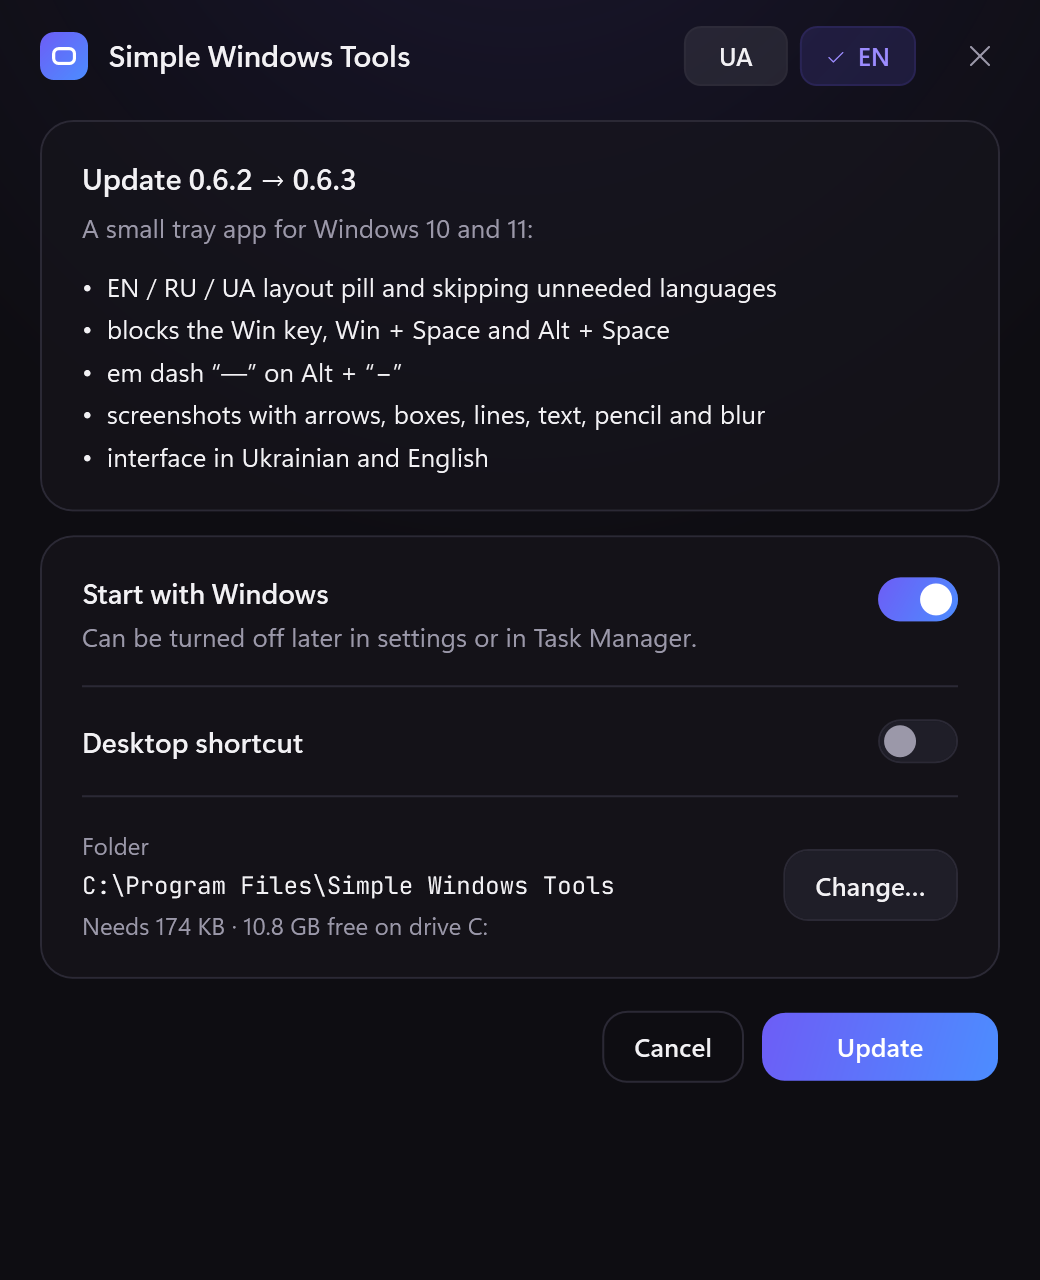
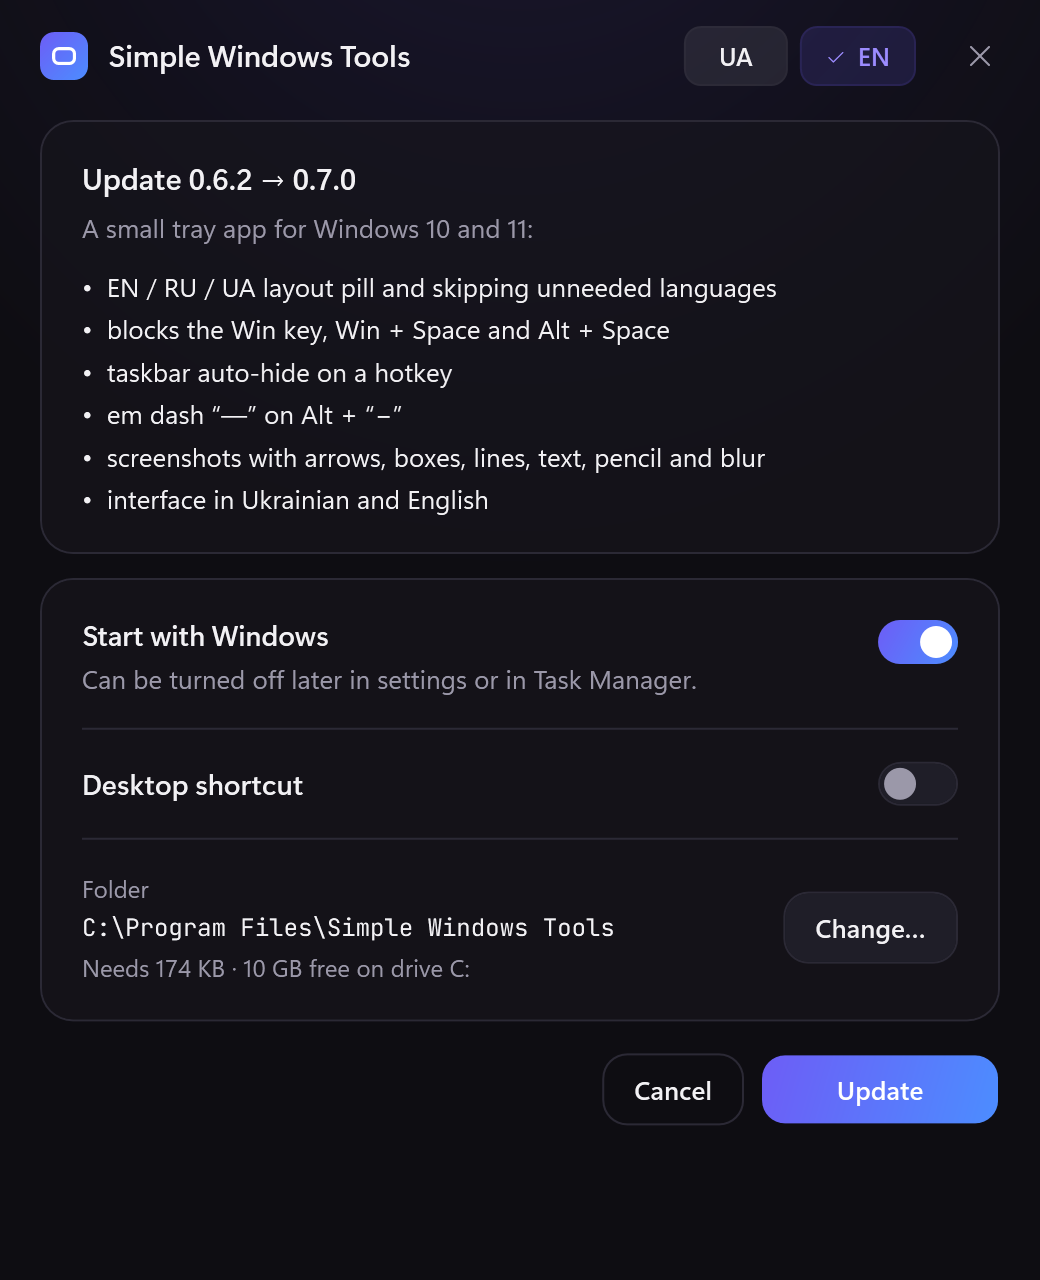
0.7.0: taskbar auto-hide on a hotkey
Ctrl+Alt+F8 (re-assignable) flips Windows' "Automatically hide the taskbar"
through SHAppBarMessage ABM_SETSTATE: Windows 10 and 11, all monitors, no
Explorer restart. The state stays Windows' own; the settings card, its switch
and a tray item show it and are re-read when opened.

diff --git a/src/SimpleWindowsTools/UI/SettingsWindow.xaml b/src/SimpleWindowsTools/UI/SettingsWindow.xaml
@@ -148,6 +148,23 @@
                             </Grid>
                         </Border>
 
+                        <!-- ===== Taskbar auto-hide (the state is Windows' own) ===== -->
+                        <Border Style="{StaticResource Card}">
+                            <Grid>
+                                <Grid.ColumnDefinitions>
+                                    <ColumnDefinition Width="*" />
+                                    <ColumnDefinition Width="Auto" />
+                                </Grid.ColumnDefinitions>
+                                <StackPanel>
+                                    <TextBlock Text="{DynamicResource S.Taskbar.Title}" Style="{StaticResource CardTitle}" />
+                                    <TextBlock Style="{StaticResource Muted}" Margin="0,4,0,10" Text="{DynamicResource S.Taskbar.Text}" />
+                                    <ui:HotkeyEditor x:Name="TaskbarHotkey" />
+                                </StackPanel>
+                                <CheckBox x:Name="TaskbarSwitch" Grid.Column="1" Style="{StaticResource Switch}" VerticalAlignment="Top" Margin="16,2,0,0"
+                                          Click="TaskbarSwitch_Click" />
+                            </Grid>
+                        </Border>
+
                         <!-- ===== Em dash ===== -->
                         <Border Style="{StaticResource Card}">
                             <Grid>

diff --git a/src/SimpleWindowsTools/Setup/InstallerWindow.xaml b/src/SimpleWindowsTools/Setup/InstallerWindow.xaml
@@ -35,6 +35,7 @@
                             <TextBlock Style="{StaticResource Muted}" Margin="0,6,0,12" Text="{DynamicResource I.Intro}" />
                             <TextBlock Style="{StaticResource Text}" Margin="0,0,0,4" Text="{DynamicResource I.F1}" />
                             <TextBlock Style="{StaticResource Text}" Margin="0,0,0,4" Text="{DynamicResource I.F2}" />
+                            <TextBlock Style="{StaticResource Text}" Margin="0,0,0,4" Text="{DynamicResource I.F6}" />
                             <TextBlock Style="{StaticResource Text}" Margin="0,0,0,4" Text="{DynamicResource I.F3}" />
                             <TextBlock Style="{StaticResource Text}" Margin="0,0,0,4" Text="{DynamicResource I.F4}" />
                             <TextBlock Style="{StaticResource Text}" Text="{DynamicResource I.F5}" />

diff --git a/src/SimpleWindowsTools/Core/Loc.cs b/src/SimpleWindowsTools/Core/Loc.cs
@@ -102,6 +102,12 @@ public static class Strings
             "Win не відкриває «Пуск», Win + Space і Alt + Space нічого не роблять. Поки Win затиснута, інші клавіші теж не натискаються.",
             "Win doesn't open Start, Win + Space and Alt + Space do nothing. While Win is held, other keys don't work either.",
         },
+        ["S.Taskbar.Title"] = new[] { "Автоприховування панелі завдань", "Taskbar auto-hide" },
+        ["S.Taskbar.Text"] = new[]
+        {
+            "Гаряча клавіша вмикає й вимикає «Автоматично приховувати панель завдань» з параметрів Windows. Перемикач показує поточний стан.",
+            "The hotkey turns Windows' “Automatically hide the taskbar” on and off. The switch shows the current state.",
+        },
         ["S.Dash.Title"] = new[] { "Довге тире", "Em dash" },
         ["S.Dash.Text"] = new[]
         {
@@ -266,6 +272,7 @@ public static class Strings
         ["C.Title.Win"] = new[] { "блокування Win", "the Win blocker" },
         ["C.Title.Dash"] = new[] { "довге тире", "the em dash" },
         ["C.Title.Shot"] = new[] { "скриншот", "screenshots" },
+        ["C.Title.Taskbar"] = new[] { "автоприховування панелі завдань", "taskbar auto-hide" },
         ["C.Title.Exit"] = new[] { "закриття програми", "quitting the app" },
         ["C.InUse"] = new[] { "Уже використовується: {0}", "Already used for {0}" },
         ["C.TakenByOther"] = new[] { "Це сполучення вже зайняте іншою програмою", "Another app already uses this shortcut" },
@@ -276,12 +283,16 @@ public static class Strings
         ["C.InSwitch"] = new[] { "{0}: у перемиканні", "{0}: back in switching" },
         ["C.WinBlocked"] = new[] { "Win: заблокована", "Win: blocked" },
         ["C.WinWorks"] = new[] { "Win: працює", "Win: works" },
+        ["C.TaskbarHidden"] = new[] { "Панель завдань: ховається", "Taskbar: auto-hide" },
+        ["C.TaskbarShown"] = new[] { "Панель завдань: завжди видно", "Taskbar: always shown" },
+        ["C.TaskbarFailed"] = new[] { "Не вдалося змінити панель завдань", "Couldn't change the taskbar" },
         ["C.ShotFailed"] = new[] { "Скриншот не вдався", "Screenshot failed" },
 
         // ===== Tray menu =====
         ["T.Settings"] = new[] { "Налаштування", "Settings" },
         ["T.Shot"] = new[] { "Зробити скриншот", "Take a screenshot" },
         ["T.Win"] = new[] { "Блокування Win", "Win blocker" },
+        ["T.Taskbar"] = new[] { "Ховати панель завдань", "Auto-hide the taskbar" },
         ["T.Exit"] = new[] { "Вихід", "Quit" },
 
         // ===== Screenshot editor =====
@@ -313,6 +324,7 @@ public static class Strings
         ["I.Intro"] = new[] { "Маленька програма в треї для Windows 10 і 11:", "A small tray app for Windows 10 and 11:" },
         ["I.F1"] = new[] { "•  плашка EN / RU / UA і пропуск непотрібних мов", "•  EN / RU / UA layout pill and skipping unneeded languages" },
         ["I.F2"] = new[] { "•  блокування клавіші Win, Win + Space і Alt + Space", "•  blocks the Win key, Win + Space and Alt + Space" },
+        ["I.F6"] = new[] { "•  автоприховування панелі завдань гарячою клавішею", "•  taskbar auto-hide on a hotkey" },
         ["I.F3"] = new[] { "•  довге тире «—» на Alt + «−»", "•  em dash “—” on Alt + “−”" },
         ["I.F4"] = new[] { "•  скриншоти зі стрілками, рамками, лініями, текстом, олівцем і розмиттям", "•  screenshots with arrows, boxes, lines, text, pencil and blur" },
         ["I.F5"] = new[] { "•  інтерфейс українською та англійською", "•  interface in Ukrainian and English" },

diff --git a/src/SimpleWindowsTools/UI/SettingsWindow.xaml.cs b/src/SimpleWindowsTools/UI/SettingsWindow.xaml.cs
@@ -30,6 +30,7 @@ public partial class SettingsWindow : Window
         SkipHotkey.Init(_app, HotkeyId.ToggleSkip);
         BuildLanguageChips();
         WinHotkey.Init(_app, HotkeyId.ToggleWinBlock);
+        TaskbarHotkey.Init(_app, HotkeyId.Taskbar);
         DashHotkey.Init(_app, HotkeyId.EmDash);
         ShotHotkey.Init(_app, HotkeyId.Screenshot);
         ExitHotkey.Init(_app, HotkeyId.Exit);
@@ -46,6 +47,7 @@ public partial class SettingsWindow : Window
         Activated += (_, _) =>
         {
             LoadAutostartState(); // may have been switched off in Task Manager meanwhile
+            TaskbarSwitch.IsChecked = Modules.TaskbarAutoHide.IsOn; // or auto-hide in Windows settings
             BuildShotTools();     // may have been reordered in the editor meanwhile
         };
         UI.DragReorder.Attach(ShotTools, tags =>
@@ -63,6 +65,7 @@ public partial class SettingsWindow : Window
         OverlayOptions.IsEnabled = s.LayoutOverlayEnabled;
         OverlayOptions.Opacity = s.LayoutOverlayEnabled ? 1 : 0.45;
         WinSwitch.IsChecked = s.WinBlockEnabled;
+        TaskbarSwitch.IsChecked = Modules.TaskbarAutoHide.IsOn; // read from Windows: may be changed in its settings
         DashSwitch.IsChecked = s.EmDashEnabled;
         DurationSlider.Value = s.OverlayDurationMs;
         FontSlider.Value = s.OverlayFontSize;
@@ -74,6 +77,7 @@ public partial class SettingsWindow : Window
         foreach (var chip in SkipLanguages.Children.OfType<ToggleButton>())
             chip.IsChecked = s.SkippedLanguages.Contains((int)chip.Tag);
         WinHotkey.Refresh();
+        TaskbarHotkey.Refresh();
         DashHotkey.Refresh();
         ShotHotkey.Refresh();
         ShotSwitch.IsChecked = s.ScreenshotEnabled;
@@ -367,6 +371,7 @@ public partial class SettingsWindow : Window
 
     private void OverlaySwitch_Click(object sender, RoutedEventArgs e) => _app.SetLayoutOverlay(OverlaySwitch.IsChecked == true);
     private void WinSwitch_Click(object sender, RoutedEventArgs e) => _app.SetWinBlock(WinSwitch.IsChecked == true);
+    private void TaskbarSwitch_Click(object sender, RoutedEventArgs e) => _app.SetTaskbarAutoHide(TaskbarSwitch.IsChecked == true);
     private void DashSwitch_Click(object sender, RoutedEventArgs e) => _app.SetEmDash(DashSwitch.IsChecked == true);
 
     private void Look_Changed(object sender, RoutedPropertyChangedEventArgs<double> e)

diff --git a/src/SimpleWindowsTools/UI/TrayIcon.cs b/src/SimpleWindowsTools/UI/TrayIcon.cs
@@ -13,6 +13,7 @@ public sealed class TrayIcon : IDisposable
     private readonly ToolStripMenuItem _overlayItem;
     private readonly ToolStripMenuItem _skipItem;
     private readonly ToolStripMenuItem _winItem;
+    private readonly ToolStripMenuItem _taskbarItem;
     private readonly ToolStripMenuItem _dashItem;
     private readonly ToolStripMenuItem _exitItem;
     private readonly ToolStripMenuItem _shotItem;
@@ -32,6 +33,7 @@ public sealed class TrayIcon : IDisposable
         _skipItem = new ToolStripMenuItem("", null, (_, _) => _app.SetSkipLanguages(!_app.Settings.SkipLanguagesEnabled, notify: true));
         _winItem = new ToolStripMenuItem("", null, (_, _) => _app.SetWinBlock(!_app.Settings.WinBlockEnabled));
         _dashItem = new ToolStripMenuItem("", null, (_, _) => _app.SetEmDash(!_app.Settings.EmDashEnabled));
+        _taskbarItem = new ToolStripMenuItem("", null, (_, _) => _app.SetTaskbarAutoHide(!Modules.TaskbarAutoHide.IsOn));
 
         _exitItem = new ToolStripMenuItem("", null, (_, _) => _app.RequestExit());
 
@@ -56,6 +58,7 @@ public sealed class TrayIcon : IDisposable
             Padding = new Padding(4),
             Font = new Font("Segoe UI", 9.5f),
         };
+        menu.Opening += (_, _) => Refresh(); // taskbar auto-hide may have been changed in Windows settings
         menu.Items.AddRange(new ToolStripItem[]
         {
             _updateItem,
@@ -66,6 +69,7 @@ public sealed class TrayIcon : IDisposable
             _overlayItem,
             _skipItem,
             _winItem,
+            _taskbarItem,
             _dashItem,
             new ToolStripSeparator(),
             _exitItem,
@@ -109,6 +113,10 @@ public sealed class TrayIcon : IDisposable
         _overlayItem.Text = Core.Loc.T("S.Overlay.Title");
         _skipItem.Text = Core.Loc.T("S.Skip.Title");
         _winItem.Text = Core.Loc.T("T.Win");
+        _taskbarItem.Text = Core.Loc.T("T.Taskbar");
+        _taskbarItem.Checked = Modules.TaskbarAutoHide.IsOn; // Windows' own state, re-read whenever the menu opens
+        _taskbarItem.ShortcutKeyDisplayString = _app.GetHotkey(HotkeyId.Taskbar).Display;
+        _taskbarItem.ShowShortcutKeys = true;
         _dashItem.Text = Core.Loc.T("S.Dash.Title");
         _exitItem.Text = Core.Loc.T("T.Exit");
         var update = _app.AvailableUpdate;

diff --git a/src/SimpleWindowsTools/Modules/TaskbarAutoHide.cs b/src/SimpleWindowsTools/Modules/TaskbarAutoHide.cs
@@ -1,0 +1,59 @@
+using System;
+using System.Runtime.InteropServices;
+using SimpleWindowsTools.Core;
+
+namespace SimpleWindowsTools.Modules;
+
+/// <summary>
+/// "Automatically hide the taskbar" (Settings → Personalization → Taskbar) switched by a hotkey.
+/// Uses the documented app bar API (SHAppBarMessage ABM_GETSTATE / ABM_SETSTATE), which works the same on
+/// Windows 10 and 11, applies right away without restarting Explorer, and covers the taskbars on all monitors.
+/// The state lives in Windows, not in our settings: whatever the user set elsewhere, the hotkey flips it.
+/// </summary>
+public static class TaskbarAutoHide
+{
+    private const uint ABM_GETSTATE = 0x4;
+    private const uint ABM_SETSTATE = 0xA;
+    private const int ABS_AUTOHIDE = 0x1;
+    private const int ABS_ALWAYSONTOP = 0x2; // always set on Windows 7+; the "off" state
+
+    [StructLayout(LayoutKind.Sequential)]
+    private struct APPBARDATA
+    {
+        public int cbSize;
+        public IntPtr hWnd;
+        public uint uCallbackMessage;
+        public uint uEdge;
+        public Native.RECT rc;
+        public IntPtr lParam;
+    }
+
+    [DllImport("shell32.dll")]
+    private static extern UIntPtr SHAppBarMessage(uint dwMessage, ref APPBARDATA pData);
+
+    private static APPBARDATA Data() => new()
+    {
+        cbSize = Marshal.SizeOf<APPBARDATA>(),
+        hWnd = Native.FindWindowEx(IntPtr.Zero, IntPtr.Zero, "Shell_TrayWnd", null),
+    };
+
+    /// <summary>Is the taskbar set to hide automatically right now.</summary>
+    public static bool IsOn
+    {
+        get
+        {
+            var data = Data();
+            return ((long)SHAppBarMessage(ABM_GETSTATE, ref data) & ABS_AUTOHIDE) != 0;
+        }
+    }
+
+    /// <summary>Turns auto-hide on or off. Returns false if Windows didn't take it (no taskbar, Explorer not running).</summary>
+    public static bool Set(bool on)
+    {
+        var data = Data();
+        if (data.hWnd == IntPtr.Zero) return false;
+        data.lParam = (IntPtr)(on ? ABS_AUTOHIDE | ABS_ALWAYSONTOP : ABS_ALWAYSONTOP);
+        SHAppBarMessage(ABM_SETSTATE, ref data);
+        return IsOn == on;
+    }
+}

diff --git a/src/SimpleWindowsTools/AppController.cs b/src/SimpleWindowsTools/AppController.cs
@@ -14,7 +14,7 @@ namespace SimpleWindowsTools;
 /// Owns the modules, settings and hotkeys; the tray menu and the settings window both go through it,
 /// so a change made in one place shows up everywhere. New features (screenshots, …) plug in here.
 /// </summary>
-public enum HotkeyId { ToggleOverlay, ToggleSkip, ToggleWinBlock, EmDash, Screenshot, Exit }
+public enum HotkeyId { ToggleOverlay, ToggleSkip, ToggleWinBlock, EmDash, Screenshot, Exit, Taskbar }
 
 public sealed class AppController : IDisposable
 {
@@ -64,6 +64,9 @@ public sealed class AppController : IDisposable
             new(HotkeyId.Screenshot, "C.Title.Shot", HotkeyDefaults.Screenshot,
                 s => s.ScreenshotHotkey, (s, v) => s.ScreenshotHotkey = v,
                 null), // handled in the keyboard hook: PrintScreen must be taken from the Snipping Tool
+            new(HotkeyId.Taskbar, "C.Title.Taskbar", HotkeyDefaults.Taskbar,
+                s => s.TaskbarHotkey, (s, v) => s.TaskbarHotkey = v,
+                () => SetTaskbarAutoHide(!TaskbarAutoHide.IsOn, notify: true)),
             new(HotkeyId.Exit, "C.Title.Exit", HotkeyDefaults.Exit,
                 s => s.ExitHotkey, (s, v) => s.ExitHotkey = v,
                 RequestExit),
@@ -109,6 +112,15 @@ public sealed class AppController : IDisposable
         Settings.WinBlockEnabled = on;
         Commit();
         if (notify) Toast(Loc.T(on ? "C.WinBlocked" : "C.WinWorks"));
+    }
+
+    /// <summary>Windows' taskbar auto-hide. Not a setting of ours: Windows keeps it, we only flip it.</summary>
+    public void SetTaskbarAutoHide(bool on, bool notify = false)
+    {
+        bool ok = TaskbarAutoHide.Set(on);
+        if (!ok) Log.Info($"Taskbar auto-hide -> {on} was not applied");
+        Changed?.Invoke();
+        if (notify || !ok) Toast(Loc.T(!ok ? "C.TaskbarFailed" : on ? "C.TaskbarHidden" : "C.TaskbarShown"));
     }
 
     public void SetEmDash(bool on)

diff --git a/src/SimpleWindowsTools/SelfTest.cs b/src/SimpleWindowsTools/SelfTest.cs
@@ -353,6 +353,17 @@ internal static class SelfTest
         File.Delete(Path.Combine(SettingsStore.Folder, "settings.json"));
         using var app = new AppController();
 
+        // Taskbar auto-hide: its own hotkey, default Ctrl+Alt+F8, different from every other default
+        Check("taskbar hotkey default Ctrl+Alt+F8", app.GetHotkey(HotkeyId.Taskbar).Display == "Ctrl+Alt+F8", app.GetHotkey(HotkeyId.Taskbar).Display);
+        var defaults = Enum.GetValues<HotkeyId>().Select(id => app.GetDefaultHotkey(id).Display).ToList();
+        Check("all default hotkeys differ", defaults.Distinct().Count() == defaults.Count, string.Join(", ", defaults));
+        Hotkey.TryParse("Ctrl+Alt+F11", out var winKey);
+        var taskDup = app.TrySetHotkey(HotkeyId.Taskbar, winKey);
+        Check("taskbar hotkey can't take the Win blocker's", taskDup is not null, taskDup);
+        string? readError = null;
+        try { _ = Modules.TaskbarAutoHide.IsOn; } catch (Exception ex) { readError = ex.Message; }
+        Check("taskbar state reads from Windows without throwing", readError is null, readError);
+
         Hotkey.TryParse("Ctrl+Alt+F10", out var overlayKey);
         var dup = app.TrySetHotkey(HotkeyId.EmDash, overlayKey);
         Check("duplicate of another function refused", dup is not null && dup.Contains("layout pill"), dup);

diff --git a/src/SimpleWindowsTools/Core/Settings.cs b/src/SimpleWindowsTools/Core/Settings.cs
@@ -31,6 +31,8 @@ public sealed class AppSettings
     public string ToggleSkipHotkey { get; set; } = HotkeyDefaults.ToggleSkip;
     public string ScreenshotHotkey { get; set; } = HotkeyDefaults.Screenshot;
     public string ExitHotkey { get; set; } = HotkeyDefaults.Exit;
+    /// <summary>Flips Windows' "automatically hide the taskbar" (the state itself lives in Windows).</summary>
+    public string TaskbarHotkey { get; set; } = HotkeyDefaults.Taskbar;
 
     // Screenshot editor: last used color, line thickness and text size are kept between shots
     public bool ScreenshotEnabled { get; set; } = true;
@@ -63,6 +65,7 @@ public static class HotkeyDefaults
     public const string ToggleSkip = "Ctrl+Alt+F9";
     public const string Screenshot = "PrintScreen";
     public const string Exit = "Ctrl+Alt+F12";
+    public const string Taskbar = "Ctrl+Alt+F8";
 }
 
 public static class SettingsStore

diff --git a/src/SimpleWindowsTools/Core/Changelog.cs b/src/SimpleWindowsTools/Core/Changelog.cs
@@ -13,6 +13,11 @@ public static class Changelog
 
     public static readonly Release[] Releases =
     {
+        new("0.7.0", new DateOnly(2026, 11, 21), new[]
+        {
+            new[] { "Автоприховування панелі завдань гарячою клавішею (Ctrl+Alt+F8), також у меню трею",
+                    "Taskbar auto-hide on a hotkey (Ctrl+Alt+F8), also in the tray menu" },
+        }),
         new("0.6.3", new DateOnly(2026, 11, 20), new[]
         {
             new[] { "Світлу тему прибрано: програма знову лише темна",

diff --git a/README.md b/README.md
@@ -1,8 +1,8 @@
 # Simple Windows Tools
 
 A small tray app for Windows 10 and 11 with a handful of everyday helpers: an on-screen keyboard layout
-indicator, skipping layouts you rarely use, a Win key blocker, an em dash on any layout and a quick
-screenshot editor. Dark interface in English and Ukrainian.
+indicator, skipping layouts you rarely use, a Win key blocker, taskbar auto-hide on a hotkey, an em dash on
+any layout and a quick screenshot editor. Dark interface in English and Ukrainian.
 
 **[⬇ Download the latest version](https://github.com/AM0SK/SimpleWindowsTools/releases/latest)** — `SimpleWindowsTools-Setup.exe`
 
@@ -15,6 +15,7 @@ screenshot editor. Dark interface in English and Ukrainian.
 | **Layout pill** | Shows EN / RU / UA (any installed language) for a moment in the middle of the screen when the keyboard layout changes. | `Ctrl+Alt+F10` on/off |
 | **Skip languages** | Chosen layouts are left out when you switch with Alt+Shift / Win+Space. The hotkey brings them back for a while. | `Ctrl+Alt+F9` |
 | **Win key blocker** | Win doesn't open Start; Win+Space and Alt+Space do nothing. Handy for games and for people who hit Win by accident. | `Ctrl+Alt+F11` on/off |
+| **Taskbar auto-hide** | Turns Windows' “Automatically hide the taskbar” on and off. Works on Windows 10 and 11, for the taskbars on all monitors. | `Ctrl+Alt+F8` |
 | **Em dash** | Types “—” in any layout. | `Alt` + `-` |
 | **Screenshot** | Select an area of the screen, mark it up, then copy or save. | `PrintScreen` |
 | **Quit** | Closes the app. | `Ctrl+Alt+F12` |
